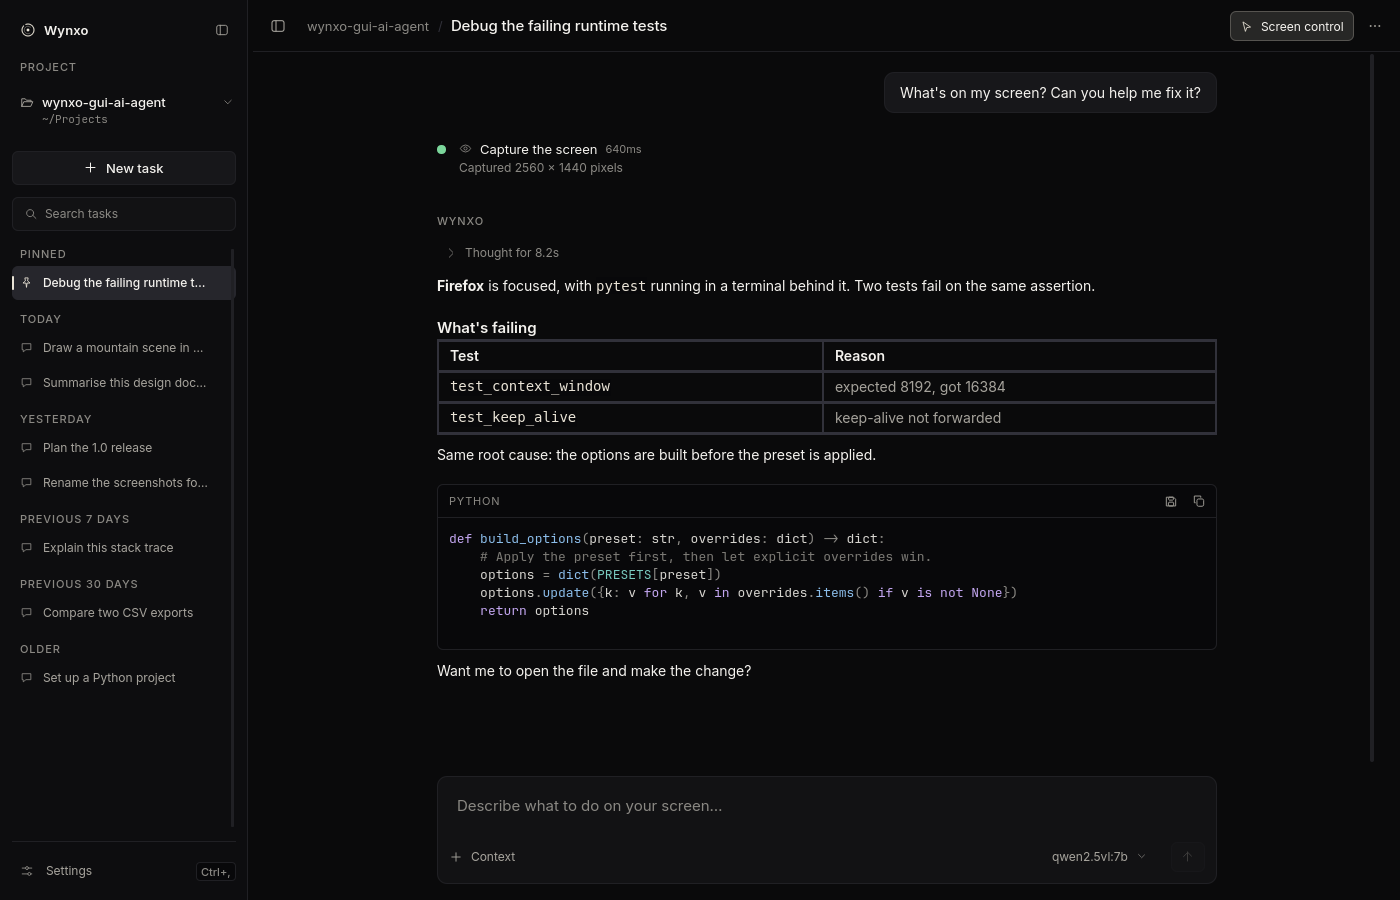
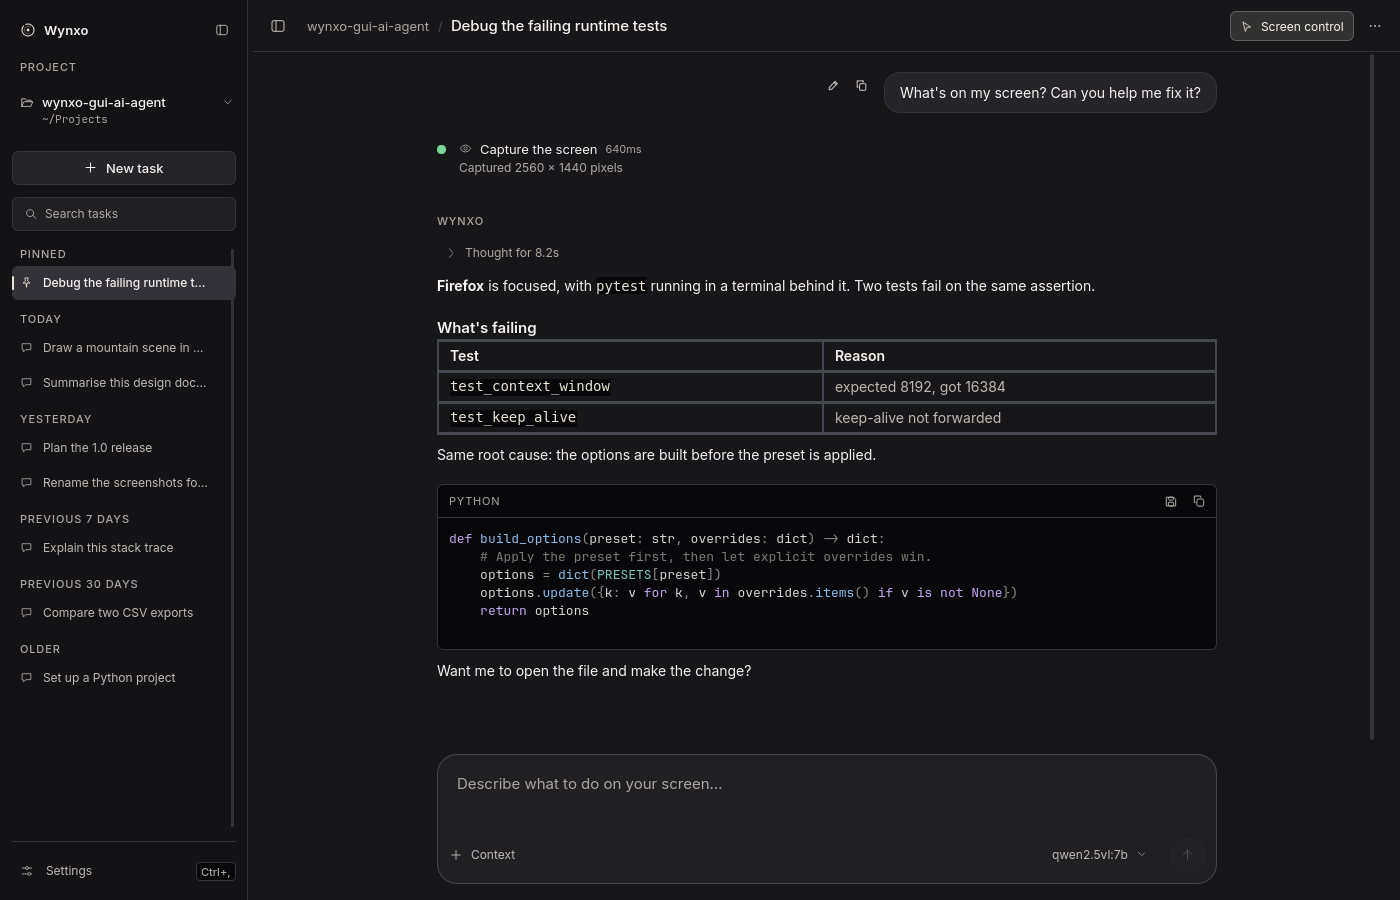
Polish the chat interface and make message actions accessible

Changed region(s): [[0.3071, 0.8711, 0.5221, 0.9022], [0.7371, 0.9333, 0.7986, 0.9644], [0.3379, 0.9333, 0.3686, 0.9644]]

diff --git a/wynxo/ui/Wynxo/TaskStart.qml b/wynxo/ui/Wynxo/TaskStart.qml
@@ -3,7 +3,7 @@ import QtQuick.Controls
 import QtQuick.Layouts
 
 /*!
-    A new task, oriented around work rather than a greeting.
+    A welcoming starting point with project context and useful next steps.
 
     It answers the two questions you actually have when you open a tool: where
     am I working, and what was I doing last. The starters are prompts, not
@@ -16,8 +16,8 @@ Item {
     readonly property var recent: {
         var groups = bridge ? bridge.taskGroups : [];
         var out = [];
-        for (var g = 0; g < groups.length && out.length < 4; g++)
-            for (var i = 0; i < groups[g].items.length && out.length < 4; i++)
+        for (var g = 0; g < groups.length && out.length < 3; g++)
+            for (var i = 0; i < groups[g].items.length && out.length < 3; i++)
                 out.push(groups[g].items[i]);
         return out;
     }
@@ -25,7 +25,7 @@ Item {
     Flickable {
         anchors.fill: parent
         contentWidth: width
-        contentHeight: body.implicitHeight + Theme.s7 * 2
+        contentHeight: body.y + body.implicitHeight + Theme.s6
         boundsBehavior: Flickable.StopAtBounds
         clip: true
         ScrollBar.vertical: ScrollBar { policy: ScrollBar.AsNeeded }
@@ -37,9 +37,16 @@ Item {
             y: Math.max(Theme.s6, (root.height - implicitHeight) / 2.6)
             spacing: Theme.s5
 
+            Mark {
+                Layout.alignment: Qt.AlignHCenter
+                Layout.preferredWidth: 44; Layout.preferredHeight: 44
+            }
+
             Text {
                 Layout.fillWidth: true
-                text: "Start a task"
+                text: "What can we do together?"
+                horizontalAlignment: Text.AlignHCenter
+                wrapMode: Text.WordWrap
                 color: Theme.textPrimary
                 font.family: Theme.sansFamily
                 font.pixelSize: Theme.display
@@ -47,32 +54,39 @@ Item {
                 font.letterSpacing: -0.6
             }
 
-            // ---------------------------------------------------- the place
-            Row {
+            Text {
                 Layout.fillWidth: true
+                text: "Think it through. Build something. Get things done."
+                horizontalAlignment: Text.AlignHCenter
+                color: Theme.textSecondary
+                font.family: Theme.sansFamily; font.pixelSize: Theme.body
+                wrapMode: Text.WordWrap
+            }
+
+            // ---------------------------------------------------- the place
+            RowLayout {
+                Layout.alignment: Qt.AlignHCenter
+                Layout.maximumWidth: body.width
                 spacing: Theme.s2
                 SectionLabel {
                     text: "Working in"
-                    anchors.verticalCenter: parent.verticalCenter
                 }
                 Text {
-                    anchors.verticalCenter: parent.verticalCenter
                     visible: !!(bridge && bridge.projectPath)
                     text: bridge ? bridge.projectLabel : ""
                     color: Theme.textSecondary
                     font.family: Theme.monoFamily; font.pixelSize: Theme.caption
-                    width: Math.min(implicitWidth, body.width - 220)
+                    Layout.maximumWidth: Math.max(60, body.width - 220)
+                    Layout.fillWidth: true
                     elide: Text.ElideLeft
                 }
                 Text {
-                    anchors.verticalCenter: parent.verticalCenter
                     visible: !(bridge && bridge.projectPath)
                     text: "no folder chosen"
                     color: Theme.textMuted
                     font.family: Theme.sansFamily; font.pixelSize: Theme.label
                 }
                 WButton {
-                    anchors.verticalCenter: parent.verticalCenter
                     text: bridge && bridge.projectPath ? "Change" : "Choose a folder"
                     iconName: bridge && bridge.projectPath ? "" : "folder"
                     variant: "ghost"
@@ -151,19 +165,49 @@ Item {
                 Layout.topMargin: Theme.s1
                 spacing: Theme.s2
 
-                SectionLabel { Layout.fillWidth: true; text: "Or start from" }
+                SectionLabel { Layout.fillWidth: true; text: "Explore with Wynxo" }
 
-                Flow {
+                GridLayout {
                     Layout.fillWidth: true
-                    spacing: Theme.s2
+                    columns: body.width < 580 ? 2 : 4
+                    columnSpacing: Theme.s2
+                    rowSpacing: Theme.s2
                     Repeater {
                         model: bridge ? bridge.starters : []
-                        delegate: Chip {
+                        delegate: AbstractButton {
+                            id: starter
                             required property var modelData
-                            text: modelData.title
-                            iconName: modelData.icon
-                            implicitHeight: Theme.control
+                            Layout.fillWidth: true
+                            Layout.preferredWidth: 1
+                            implicitHeight: 78
+                            hoverEnabled: true
+                            Accessible.name: modelData.title
                             onClicked: root.starterChosen(modelData.prompt)
+                            background: Rectangle {
+                                radius: Theme.r3
+                                color: starter.hovered ? Theme.surfaceHover : Theme.surface
+                                border.width: 1
+                                border.color: starter.visualFocus ? Theme.accent : Theme.borderSubtle
+                                Behavior on color { enabled: !Theme.reducedMotion; ColorAnimation { duration: Theme.fast } }
+                            }
+                            contentItem: ColumnLayout {
+                                spacing: Theme.s2
+                                Icon {
+                                    Layout.leftMargin: Theme.s3
+                                    name: modelData.icon
+                                    ink: Theme.textSecondary
+                                    Layout.preferredWidth: 17; Layout.preferredHeight: 17
+                                }
+                                Text {
+                                    Layout.fillWidth: true
+                                    Layout.leftMargin: Theme.s3; Layout.rightMargin: Theme.s3
+                                    text: modelData.title
+                                    color: Theme.textPrimary
+                                    font.family: Theme.sansFamily; font.pixelSize: Theme.caption
+                                    elide: Text.ElideRight
+                                }
+                            }
+                            MouseArea { anchors.fill: parent; acceptedButtons: Qt.NoButton; cursorShape: Qt.PointingHandCursor }
                         }
                     }
                 }

diff --git a/wynxo/ui/Wynxo/Composer.qml b/wynxo/ui/Wynxo/Composer.qml
@@ -51,10 +51,10 @@ Item {
         id: shell
         width: parent.width
         height: content.implicitHeight + Theme.s3 * 2
-        radius: Theme.r3
+        radius: Theme.r4
         color: Theme.surface
         border.width: 1
-        border.color: input.activeFocus ? Theme.accentEdge : Theme.borderSubtle
+        border.color: input.activeFocus ? Theme.accentEdge : Theme.borderStrong
         Behavior on border.color { enabled: !Theme.reducedMotion; ColorAnimation { duration: Theme.base } }
 
         ColumnLayout {
@@ -116,7 +116,7 @@ Item {
             ScrollView {
                 Layout.fillWidth: true
                 Layout.minimumHeight: 46
-                Layout.preferredHeight: Math.min(root.maxHeight, Math.max(46, input.implicitHeight + 6))
+                Layout.preferredHeight: Math.min(root.maxHeight, Math.max(64, input.implicitHeight + 6))
                 clip: true
                 ScrollBar.horizontal.policy: ScrollBar.AlwaysOff
                 ScrollBar.vertical.policy: ScrollBar.AsNeeded
@@ -127,7 +127,7 @@ Item {
                     onTextChanged: if (bridge) bridge.setDraft(text)
                     placeholderText: bridge && bridge.desktopEnabled
                                      ? "Describe what to do on your screen…"
-                                     : "Ask Wynxo to inspect, change, build or explain…"
+                                     : "Ask anything, or describe a task…"
                     placeholderTextColor: Theme.textMuted
                     color: Theme.textPrimary
                     selectionColor: Theme.accent
@@ -274,7 +274,7 @@ Item {
                     objectName: "sendButton"
                     iconName: bridge && bridge.busy ? "stop" : "arrow"
                     Layout.preferredWidth: Theme.control
-                    Layout.preferredHeight: Theme.controlSmall
+                    Layout.preferredHeight: Theme.control
                     iconSize: 15
                     tint: bridge && bridge.busy ? Theme.textPrimary
                         : sendButton.enabled ? Theme.onAccent : Theme.textMuted
@@ -284,7 +284,7 @@ Item {
                     enabled: (bridge && bridge.busy) || root.canSend
                     onClicked: bridge && bridge.busy ? bridge.stop() : root.send()
                     background: Rectangle {
-                        radius: Theme.r2
+                        radius: Theme.rPill
                         color: bridge && bridge.busy ? Theme.surfaceHover
                              : sendButton.enabled ? (sendButton.hovered ? Theme.accentHover : Theme.accent)
                              : Theme.surfaceRaised
@@ -315,7 +315,7 @@ Item {
         Rectangle {
             anchors.fill: parent
             visible: parent.containsDrag
-            radius: Theme.r3
+            radius: Theme.r4
             color: Theme.accentMuted
             border.width: 1
             border.color: Theme.accentEdge

diff --git a/wynxo/ui/Wynxo/Theme.qml b/wynxo/ui/Wynxo/Theme.qml
@@ -15,23 +15,23 @@ QtObject {
     readonly property bool ready: bridge !== null
 
     // ---------------------------------------------------------- foundation
-    // Near-black canvas, graphite surfaces, one step between each level. The
+    // Charcoal canvas, graphite surfaces, one step between each level. The
     // interface reads as one sheet of material with a few things raised on it.
-    readonly property color background:      "#0a0a0b"
-    readonly property color backgroundSoft:  "#0d0d0f"
-    readonly property color surface:         "#121214"
-    readonly property color surfaceRaised:   "#17171a"
-    readonly property color surfaceHover:    "#1e1e22"
-    readonly property color surfaceSelected: "#26262c"
+    readonly property color background:      "#171719"
+    readonly property color backgroundSoft:  "#131315"
+    readonly property color surface:         "#202023"
+    readonly property color surfaceRaised:   "#252529"
+    readonly property color surfaceHover:    "#2b2b30"
+    readonly property color surfaceSelected: "#323238"
     readonly property color surfaceSunken:   "#08080a"
     readonly property color scrim:           "#cc07070a"
 
-    readonly property color borderSubtle: "#202024"
-    readonly property color borderStrong: "#31313a"
+    readonly property color borderSubtle: "#333338"
+    readonly property color borderStrong: "#46464f"
 
     readonly property color textPrimary:   "#f4f2ee"
-    readonly property color textSecondary: "#a5a29b"
-    readonly property color textMuted:     "#8a8883"
+    readonly property color textSecondary: "#bbb8b1"
+    readonly property color textMuted:     "#aaa7a0"
     readonly property color textInverse:   "#101011"
 
     readonly property color accent: ready && bridge.accentColor ? bridge.accentColor : "#e9e3d6"
@@ -70,11 +70,11 @@ QtObject {
     readonly property int s7: 32
     readonly property int s8: 48
 
-    // Small radii. A card should look cut, not inflated.
+    // Softer conversation surfaces, with tighter corners for small controls.
     readonly property int r1: 4
     readonly property int r2: 6
-    readonly property int r3: 10
-    readonly property int r4: 14
+    readonly property int r3: 16
+    readonly property int r4: 20
     readonly property int rPill: 999
 
     // Minimum hit target, kept at or above 32px even in compact density.
@@ -89,7 +89,7 @@ QtObject {
     readonly property string monoFamily: "JetBrains Mono"
     property string systemSans: "Inter"
 
-    readonly property int display: Math.round(26 * scale)
+    readonly property int display: Math.round(34 * scale)
     readonly property int title:   Math.round(19 * scale)
     readonly property int heading: Math.round(15 * scale)
     readonly property int body:    Math.round(14 * scale)

diff --git a/wynxo/ui/Wynxo/UserMessage.qml b/wynxo/ui/Wynxo/UserMessage.qml
@@ -17,7 +17,7 @@ Item {
         id: card
         anchors.right: parent.right
         width: root.editing ? parent.width
-                            : Math.min(parent.width * 0.84, text.implicitWidth + Theme.s4 * 2)
+                            : Math.min(Math.max(0, parent.width - 68), text.implicitWidth + Theme.s4 * 2)
         height: root.editing ? editColumn.implicitHeight + Theme.s3 * 2
                              : text.implicitHeight + Theme.s3 * 2
         radius: Theme.r3
@@ -79,12 +79,15 @@ Item {
         }
     }
 
+    // Reserve room for actions even for long messages in narrow windows.
+    // Keep them reachable by keyboard without requiring pointer hover.
     Row {
+        objectName: "messageActions"
         anchors.right: card.left
         anchors.rightMargin: Theme.s2
         anchors.top: card.top
         spacing: 0
-        opacity: hover.hovered && !root.editing ? 1 : 0
+        opacity: !root.editing ? 1 : 0
         visible: opacity > 0
         Behavior on opacity { enabled: !Theme.reducedMotion; NumberAnimation { duration: Theme.fast } }
         IconButton {
@@ -97,5 +100,4 @@ Item {
         }
     }
 
-    HoverHandler { id: hover }
 }

diff --git a/tests/qml_probe.py b/tests/qml_probe.py
@@ -68,6 +68,11 @@ ApplicationWindow {
         checked: window.backing
         onSwitched: function(value) { window.toggleLog += value ? "on " : "off "; }
     }
+    UserMessage {
+        objectName: "longMessage"
+        x: 20; y: 400; width: 280
+        body: "A long message that should wrap without pushing the edit and copy controls outside the message row. ".repeat(8)
+    }
     property bool backing: false
 
     Chip {
@@ -152,6 +157,12 @@ def main() -> int:
     result["chip_width"] = float(chip.property("width"))
     result["chip_content_width"] = float(content.property("width")) if content else -1
     result["chip_implicit_width"] = float(chip.property("implicitWidth"))
+
+    message = window.findChild(QObject, "longMessage")
+    actions = window.findChild(QObject, "messageActions")
+    result["message_actions_left"] = float(actions.property("x"))
+    result["message_actions_visible"] = bool(actions.property("visible"))
+    result["message_height"] = float(message.property("implicitHeight"))
 
     print(json.dumps(result))
     return 0

diff --git a/tests/test_qml_interaction.py b/tests/test_qml_interaction.py
@@ -60,3 +60,9 @@ def test_a_constrained_chip_elides_instead_of_overflowing(measured):
     """An attachment name can be far wider than the room it is given."""
     assert measured["chip_implicit_width"] > measured["chip_width"]
     assert measured["chip_content_width"] <= measured["chip_width"]
+
+
+def test_long_messages_leave_room_for_accessible_actions(measured):
+    assert measured["message_height"] > 100
+    assert measured["message_actions_left"] >= 0
+    assert measured["message_actions_visible"] is True

diff --git a/README.md b/README.md
@@ -40,6 +40,10 @@ the left, the task itself on the right. Context, model, speed and run details
 each have exactly one home, and appear when you go to them rather than sitting
 on screen all day. Nothing rearranges itself because state changed.
 
+The charcoal interface uses softer conversation cards, a spacious composer,
+and a welcome screen with responsive task starters. Copy and edit actions stay
+visible beside your messages and remain reachable in narrow windows.
+
 **Conversation**
 Streamed replies with real Markdown: headings, tables, quotes, lists and links
 set in the app's own type scale. Fenced code becomes a card with syntax
